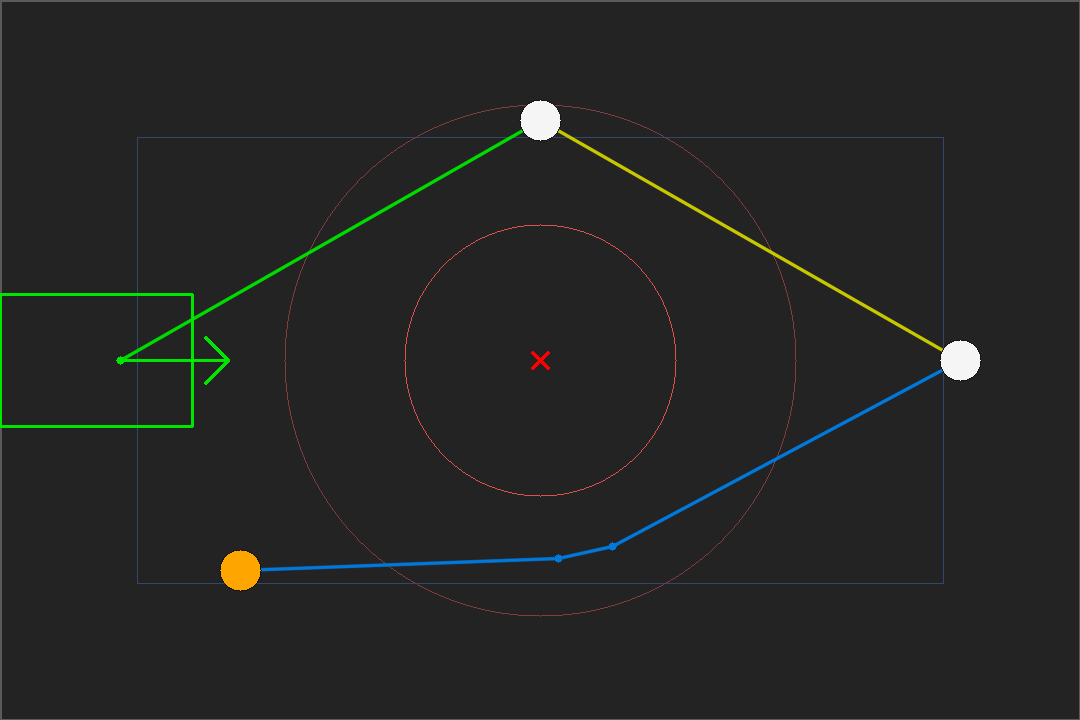
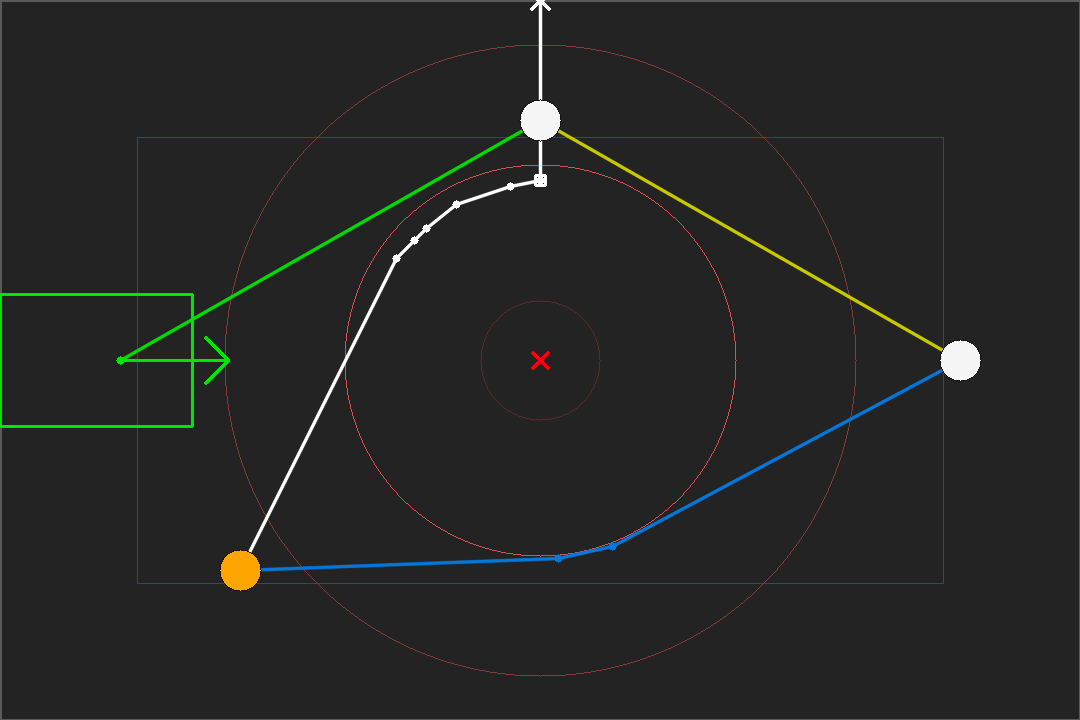
Added pickup to goal to visualizer

diff --git a/src/vision/route_visualizer.py b/src/vision/route_visualizer.py
@@ -18,12 +18,15 @@ To modes:
 
 Forklaring paa tegningen:
   * Roedt kryds      = forhindring (det Roede Kryds)
-  * Lys roed cirkel  = krop-clearance (robot_radius) -- kroppen maa ikke ind her
-  * Moerk roed cirkel = fuld clearance (safe_radius + robot_radius)
+  * Inderste cirkel  = krydsets MAALTE radius (fysisk udstraekning)
+  * Lys roed cirkel  = krop-clearance (obstacle_radius + robot_radius)
+  * Moerk roed cirkel = fuld clearance (obstacle_radius + safe_radius + robot_radius)
   * Bla ramme        = bande-inset: markoer-centret maa ikke udenfor
   * Groen polygon    = robottens footprint (FRONT/BACK/LEFT/RIGHT) i dens heading
   * Gul/hvid prikker = bolde (gul = orange VIP)
   * Farvede linjer   = ruten pr. bold i planlagt raekkefoelge
+  * Hvid linje       = ruten fra sidste bold -> waypoint -> maal (Fase 5)
+  * Hvid firkant     = waypoint foran maalet  |  Hvidt kryds = maalet
 """
 
 import os
@@ -50,11 +53,40 @@ OUTPUT_DIR = os.path.join(
     "docs", "images")
 
 
-def plan_legs(robot_xy, balls, obstacles_cm, field_w, field_h):
-    """Planlaegger ruten pr. bold i samme raekkefoelge som spillet (orange sidst).
+def _plan_one(start, target, obstacles_cm, field_w, field_h):
+    """A*-leg fra start til target. Returnerer (pts, reachable, used_safe)."""
+    route, used_safe = find_path_adaptive(
+        start, target, obstacles_cm, field_w, field_h,
+        safe_radius=OBSTACLE_SAFE_RADIUS_CM, robot_radius=ROBOT_RADIUS_CM)
+    reachable = route is not None
+    pts = [start] + (route if reachable else [target])
+    return pts, reachable, used_safe
 
-    Returnerer (legs, order) hvor legs er en liste af (start, route, reachable)
-    og order er boldene i planlagt raekkefoelge."""
+
+def _plan_goal_legs(start, obstacles_cm, field_w, field_h, goal=None):
+    """Fase 5-ruten EFTER sidste bold: sidste position -> waypoint -> maal.
+
+    Bruger samme waypoint/maal-kilde som serveren (goal_utils), saa plottet
+    matcher den faktiske koersel. Begge ben planlaegges med A* udenom krydset
+    (Trin 2 mod maalet undgaar nu ogsaa forhindringer)."""
+    from src.server.helpers.goal_utils import compute_waypoint, load_goals
+    if goal is None:
+        goal, _ = load_goals()
+    goal = (float(goal[0]), float(goal[1]))
+    wp = compute_waypoint(goal[0], goal[1], field_w, field_h)
+
+    leg_to_wp = _plan_one(start, wp, obstacles_cm, field_w, field_h)
+    leg_to_goal = _plan_one(wp, goal, obstacles_cm, field_w, field_h)
+    return [leg_to_wp, leg_to_goal], wp, goal
+
+
+def plan_legs(robot_xy, balls, obstacles_cm, field_w, field_h, goal=None):
+    """Planlaegger ruten pr. bold i samme raekkefoelge som spillet (orange sidst),
+    EFTERFULGT af Fase 5-ruten til maalet via et waypoint.
+
+    Returnerer (legs, order, goal_legs, waypoint, goal) hvor legs er bold-benene
+    [(pts, reachable, used_safe)], order er boldene i planlagt raekkefoelge, og
+    goal_legs er [sidste->waypoint, waypoint->maal]."""
     ctx = SimpleNamespace(
         robot=SimpleNamespace(x=robot_xy[0], y=robot_xy[1]),
         field_map=SimpleNamespace(field_size_cm=(field_w, field_h)),
@@ -64,14 +96,13 @@ def plan_legs(robot_xy, balls, obstacles_cm, field_w, field_h):
     legs = []
     start = (robot_xy[0], robot_xy[1])
     for ball in order:
-        route, used_safe = find_path_adaptive(
-            start, (ball.x, ball.y), obstacles_cm, field_w, field_h,
-            safe_radius=OBSTACLE_SAFE_RADIUS_CM, robot_radius=ROBOT_RADIUS_CM)
-        reachable = route is not None
-        pts = [start] + (route if reachable else [(ball.x, ball.y)])
-        legs.append((pts, reachable, used_safe))
+        leg = _plan_one(start, (ball.x, ball.y), obstacles_cm, field_w, field_h)
+        legs.append(leg)
         start = (ball.x, ball.y)
-    return legs, order
+
+    goal_legs, waypoint, goal = _plan_goal_legs(
+        start, obstacles_cm, field_w, field_h, goal)
+    return legs, order, goal_legs, waypoint, goal
 
 
 def _footprint_polygon(rx, ry, heading_deg):
@@ -92,7 +123,8 @@ def _footprint_polygon(rx, ry, heading_deg):
     return corners
 
 
-def render_topdown(field_size, obstacles_cm, robot, balls, legs):
+def render_topdown(field_size, obstacles_cm, robot, balls, legs,
+                   goal_legs=None, waypoint=None, goal=None):
     """Tegner et top-down kort af scenen + ruterne. Returnerer et BGR-billede."""
     fw, fh = field_size
     img = np.full((int(fh * SCALE), int(fw * SCALE), 3), 35, np.uint8)
@@ -105,11 +137,17 @@ def render_topdown(field_size, obstacles_cm, robot, balls, legs):
     rr = ROBOT_RADIUS_CM
     cv2.rectangle(img, P(rr, rr), P(fw - rr, fh - rr), (110, 70, 50), 1)
 
-    # Forhindringer med clearance-cirkler
-    full = OBSTACLE_SAFE_RADIUS_CM + ROBOT_RADIUS_CM
-    for ox, oy in obstacles_cm:
+    # Forhindringer med clearance-cirkler. Per-forhindring radius (obs[2]) laegges
+    # oveni baade krop- og fuld clearance, saa cirklerne matcher pathfinderen.
+    for obs in obstacles_cm:
+        ox, oy = obs[0], obs[1]
+        obs_r = obs[2] if len(obs) >= 3 else 0.0
+        full = obs_r + OBSTACLE_SAFE_RADIUS_CM + ROBOT_RADIUS_CM
+        body = obs_r + ROBOT_RADIUS_CM
         cv2.circle(img, P(ox, oy), int(full * SCALE), (60, 60, 130), 1)
-        cv2.circle(img, P(ox, oy), int(ROBOT_RADIUS_CM * SCALE), (80, 80, 220), 1)
+        cv2.circle(img, P(ox, oy), int(body * SCALE), (80, 80, 220), 1)
+        if obs_r > 0:
+            cv2.circle(img, P(ox, oy), int(obs_r * SCALE), (40, 40, 90), 1)
         cv2.drawMarker(img, P(ox, oy), (0, 0, 255), cv2.MARKER_TILTED_CROSS, 16, 2)
 
     # Ruter pr. bold
@@ -120,6 +158,22 @@ def render_topdown(field_size, obstacles_cm, robot, balls, legs):
                      lineType=cv2.LINE_AA if reachable else cv2.LINE_4)
         for p in pts[1:]:
             cv2.circle(img, P(*p), 4, color, -1)
+
+    # Mål-ruten (Fase 5): sidste bold -> waypoint -> maal, tegnet hvidt.
+    for pts, reachable, _used in (goal_legs or []):
+        color = (255, 255, 255) if reachable else (0, 0, 255)
+        for a, b in zip(pts, pts[1:]):
+            cv2.line(img, P(*a), P(*b), color, 2,
+                     lineType=cv2.LINE_AA if reachable else cv2.LINE_4)
+        for p in pts[1:]:
+            cv2.circle(img, P(*p), 4, color, -1)
+    if waypoint is not None:
+        wp_px = P(*waypoint)
+        cv2.rectangle(img, (wp_px[0] - 5, wp_px[1] - 5),
+                      (wp_px[0] + 5, wp_px[1] + 5), (255, 255, 255), 2)
+    if goal is not None:
+        cv2.drawMarker(img, P(*goal), (255, 255, 255),
+                       cv2.MARKER_TILTED_CROSS, 18, 2)
 
     # Bolde
     for ball in balls:
@@ -144,18 +198,30 @@ def render_topdown(field_size, obstacles_cm, robot, balls, legs):
     return img
 
 
-def _print_summary(legs, order):
+def _leg_tag(reachable, used_safe):
+    if not reachable:
+        return "SPRINGES OVER (indespaerret -- ingen sikker sti)"
+    if used_safe is not None and used_safe < OBSTACLE_SAFE_RADIUS_CM:
+        return "OK [reduceret buffer={:.0f} cm pga. traang bane]".format(used_safe)
+    return "OK"
+
+
+def _print_summary(legs, order, goal_legs=None):
     print("\n=== Planlagt rute ===")
     for i, (ball, (pts, reachable, used_safe)) in enumerate(zip(order, legs)):
-        if not reachable:
-            tag = "SPRINGES OVER (indespaerret -- ingen sikker sti)"
-        elif used_safe < OBSTACLE_SAFE_RADIUS_CM:
-            tag = "OK [reduceret buffer={:.0f} cm pga. traang bane]".format(used_safe)
-        else:
-            tag = "OK"
+        tag = _leg_tag(reachable, used_safe)
         wps = " -> ".join("({:.0f},{:.0f})".format(x, y) for x, y in pts)
         print(f"  Bold {i+1} [{ball.color}] @({ball.x:.0f},{ball.y:.0f}): {tag}")
         print(f"      {wps}")
+
+    if goal_legs:
+        labels = ["-> waypoint", "-> maal    "]
+        print("  --- Fase 5: koer til maal ---")
+        for label, (pts, reachable, used_safe) in zip(labels, goal_legs):
+            wps = " -> ".join("({:.0f},{:.0f})".format(x, y) for x, y in pts)
+            print(f"  {label}: {_leg_tag(reachable, used_safe)}")
+            print(f"      {wps}")
+
     if any(not r for _, r, _ in legs):
         print("\n  Bemaerk: bolde markeret SPRINGES OVER er reelt indespaerret af"
               " forhindringer. Robotten koerer IKKE ind i krydset -- den springer"
@@ -164,7 +230,7 @@ def _print_summary(legs, order):
 
 def run_demo():
     fw, fh = FIELD_SIZE_CM
-    obstacles_cm = [(90, 60)]                      # Roedt Kryds i midten
+    obstacles_cm = [(90, 60, 10.0)]                # Roedt Kryds (radius 10 cm) i midten
     robot = SimpleNamespace(x=20.0, y=60.0, heading=0.0)
     balls = [
         Ball(160, 60, "white"),                    # lige bag forhindringen
@@ -172,10 +238,12 @@ def run_demo():
         Ball(40, 95, "orange"),
     ]
 
-    legs, order = plan_legs((robot.x, robot.y), balls, obstacles_cm, fw, fh)
-    _print_summary(legs, order)
+    legs, order, goal_legs, waypoint, goal = plan_legs(
+        (robot.x, robot.y), balls, obstacles_cm, fw, fh)
+    _print_summary(legs, order, goal_legs)
 
-    img = render_topdown((fw, fh), obstacles_cm, robot, balls, legs)
+    img = render_topdown((fw, fh), obstacles_cm, robot, balls, legs,
+                         goal_legs=goal_legs, waypoint=waypoint, goal=goal)
     os.makedirs(OUTPUT_DIR, exist_ok=True)
     out = os.path.join(OUTPUT_DIR, "route_preview.png")
     cv2.imwrite(out, img)
@@ -226,10 +294,12 @@ def run_camera():
         bx, by = field_map.pixel_to_cm(b.x, b.y)
         balls.append(Ball(bx, by, b.color))
 
+    from src.server.phases.detection import obstacle_radius_cm
     obstacles_cm = []
     for o in obstacle_det.find_obstacles(frame):
         ox, oy = field_map.pixel_to_cm(o.x, o.y)
-        obstacles_cm.append((ox, oy))
+        r = obstacle_radius_cm(field_map, o, ox, oy)
+        obstacles_cm.append((ox, oy, r))
 
     print(f"Detekteret: {len(balls)} bolde, {len(obstacles_cm)} forhindring(er).")
     if not obstacles_cm:
@@ -237,13 +307,16 @@ def run_camera():
               " planlaegges. Tjek farveprofil 'roed' / ObstacleDetector hvis der"
               " faktisk staar et kryds paa banen.")
 
-    legs, order = plan_legs(robot_xy, balls, obstacles_cm, fw, fh)
-    _print_summary(legs, order)
+    legs, order, goal_legs, waypoint, goal = plan_legs(
+        robot_xy, balls, obstacles_cm, fw, fh)
+    _print_summary(legs, order, goal_legs)
 
     # Top-down kort
-    topdown = render_topdown((fw, fh), obstacles_cm, robot, balls, legs)
+    topdown = render_topdown((fw, fh), obstacles_cm, robot, balls, legs,
+                             goal_legs=goal_legs, waypoint=waypoint, goal=goal)
     # Overlay paa selve kamerabilledet
-    overlay = _draw_overlay(frame.copy(), field_map, obstacles_cm, balls, legs)
+    overlay = _draw_overlay(frame.copy(), field_map, obstacles_cm, balls, legs,
+                            goal_legs=goal_legs, waypoint=waypoint, goal=goal)
 
     os.makedirs(OUTPUT_DIR, exist_ok=True)
     top_out = os.path.join(OUTPUT_DIR, "route_topdown.png")
@@ -256,20 +329,38 @@ def run_camera():
     camera.release()
 
 
-def _draw_overlay(frame, field_map, obstacles_cm, balls, legs):
+def _draw_overlay(frame, field_map, obstacles_cm, balls, legs,
+                  goal_legs=None, waypoint=None, goal=None):
     """Tegner ruten + objekter oven paa kamerabilledet via cm_to_pixel."""
     def Q(x, y):
         px, py = field_map.cm_to_pixel(x, y)
         return (int(round(px)), int(round(py)))
 
-    for ox, oy in obstacles_cm:
-        cv2.drawMarker(frame, Q(ox, oy), (0, 0, 255), cv2.MARKER_TILTED_CROSS, 22, 3)
+    for obs in obstacles_cm:
+        cv2.drawMarker(frame, Q(obs[0], obs[1]), (0, 0, 255),
+                       cv2.MARKER_TILTED_CROSS, 22, 3)
     for i, (pts, reachable, _used) in enumerate(legs):
         color = LEG_COLORS[i % len(LEG_COLORS)] if reachable else (0, 0, 255)
         for a, b in zip(pts, pts[1:]):
             cv2.line(frame, Q(*a), Q(*b), color, 2, cv2.LINE_AA)
         for p in pts[1:]:
             cv2.circle(frame, Q(*p), 5, color, -1)
+
+    # Mål-ruten (Fase 5), hvidt.
+    for pts, reachable, _used in (goal_legs or []):
+        color = (255, 255, 255) if reachable else (0, 0, 255)
+        for a, b in zip(pts, pts[1:]):
+            cv2.line(frame, Q(*a), Q(*b), color, 2, cv2.LINE_AA)
+        for p in pts[1:]:
+            cv2.circle(frame, Q(*p), 5, color, -1)
+    if waypoint is not None:
+        wp = Q(*waypoint)
+        cv2.rectangle(frame, (wp[0] - 7, wp[1] - 7), (wp[0] + 7, wp[1] + 7),
+                      (255, 255, 255), 2)
+    if goal is not None:
+        cv2.drawMarker(frame, Q(*goal), (255, 255, 255),
+                       cv2.MARKER_TILTED_CROSS, 24, 2)
+
     for ball in balls:
         c = (0, 165, 255) if ball.color == "orange" else (245, 245, 245)
         cv2.circle(frame, Q(ball.x, ball.y), 8, c, 2)

diff --git a/src/server/phases/detection.py b/src/server/phases/detection.py
@@ -89,7 +89,7 @@ def detect_obstacles(ctx) -> Optional[List[Tuple[float, float, float]]]:
     obstacles_cm = []
     for o in ctx.obstacle_detector.find_obstacles(frame):
         ox, oy = ctx.field_map.pixel_to_cm(o.x, o.y)
-        radius = _obstacle_radius_cm(ctx, o, ox, oy)
+        radius = obstacle_radius_cm(ctx.field_map, o, ox, oy)
         obstacles_cm.append((ox, oy, radius))
 
     if obstacles_cm:
@@ -100,7 +100,7 @@ def detect_obstacles(ctx) -> Optional[List[Tuple[float, float, float]]]:
     return obstacles_cm
 
 
-def _obstacle_radius_cm(ctx, obstacle, center_x_cm, center_y_cm) -> float:
+def obstacle_radius_cm(field_map, obstacle, center_x_cm, center_y_cm) -> float:
     """Maal krydsets fysiske radius (cm) ud fra dets bounding box.
 
     Krydset er et '+': bbox'ens HJOERNER er tomme (ingen kryds der), saa de ville
@@ -109,7 +109,8 @@ def _obstacle_radius_cm(ctx, obstacle, center_x_cm, center_y_cm) -> float:
     til et kant-midtpunkt = halv arm-bredde (fx 10 cm for et 20 cm kryds).
 
     Perspektiv-transformen er ikke-lineaer, saa midtpunkterne konverteres til cm
-    foer afstanden maales (ingen direkte pixel->cm-skalering)."""
+    foer afstanden maales (ingen direkte pixel->cm-skalering). Genbruges af
+    route_visualizer, saa plot og koersel maaler krydset ens."""
     bbox = getattr(obstacle, "bbox", None)
     if not bbox:
         return 0.0
@@ -122,6 +123,6 @@ def _obstacle_radius_cm(ctx, obstacle, center_x_cm, center_y_cm) -> float:
     ]
     radius = 0.0
     for px, py in edge_mids_px:
-        cx, cy = ctx.field_map.pixel_to_cm(px, py)
+        cx, cy = field_map.pixel_to_cm(px, py)
         radius = max(radius, ((cx - center_x_cm) ** 2 + (cy - center_y_cm) ** 2) ** 0.5)
     return radius
